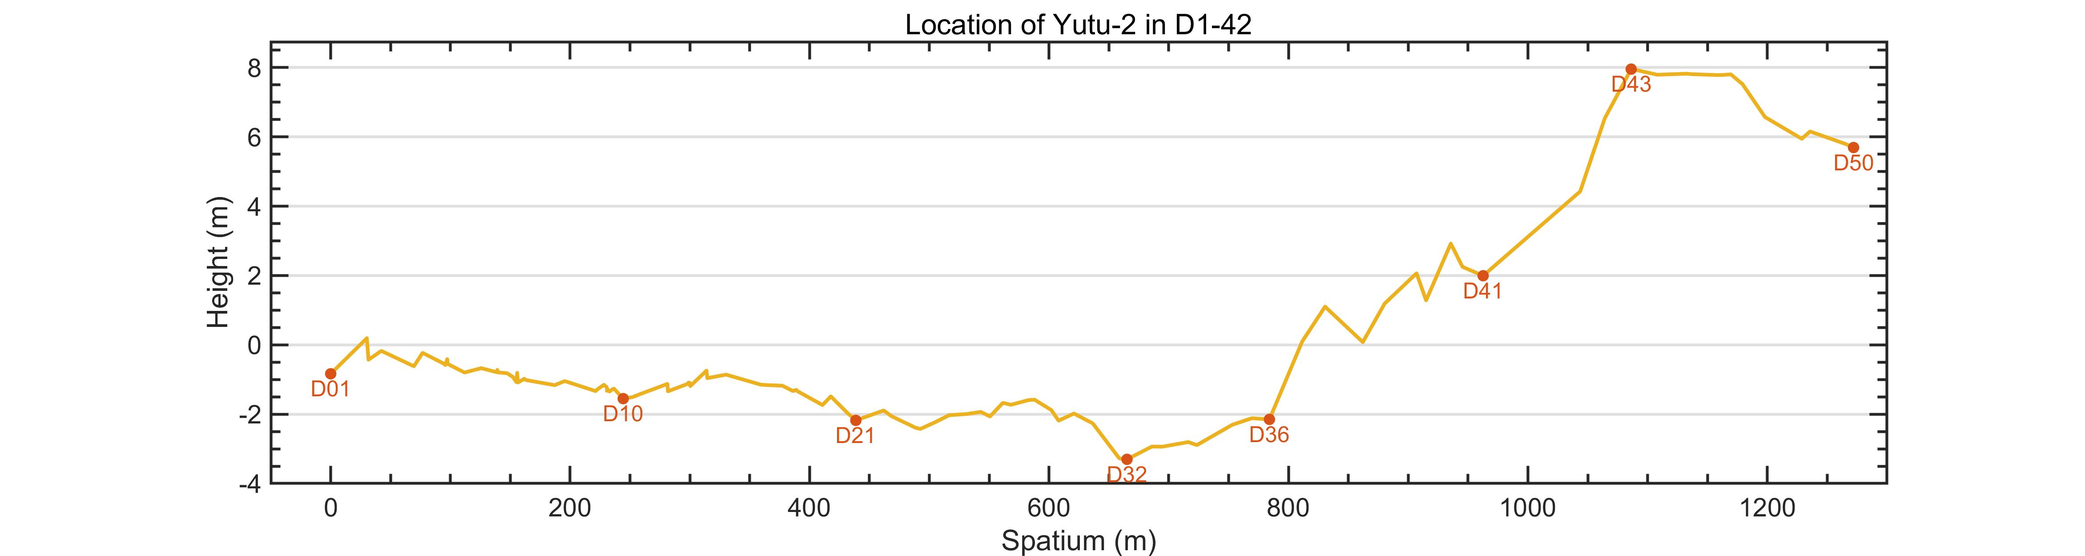
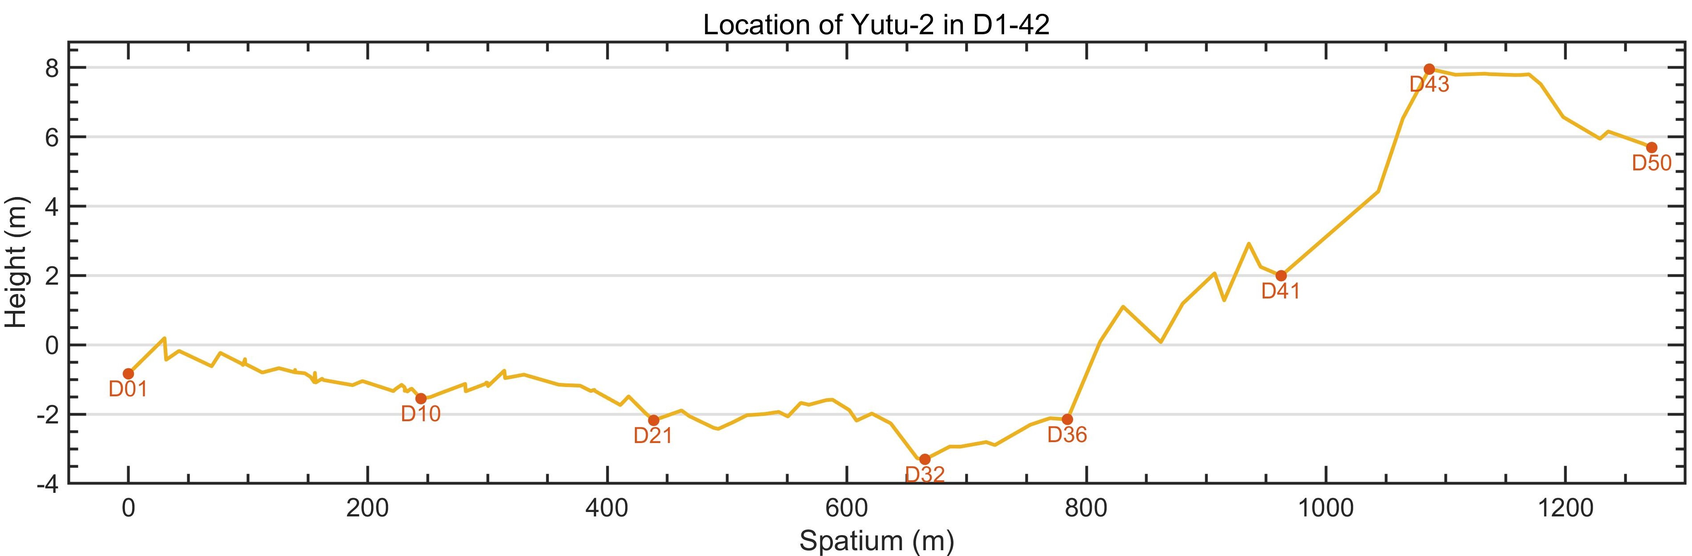
Site updated: 2023-05-11 22:05:02

diff --git a/2023/05/09/玉兔2号路上的新鲜撞击坑/index.html b/2023/05/09/玉兔2号路上的新鲜撞击坑/index.html
@@ -26,8 +26,11 @@
 <meta property="og:image" content="http://example.com/img/404.jpg">
 <meta property="og:image" content="http://example.com/img/404.jpg">
 <meta property="og:image" content="http://example.com/img/404.jpg">
+<meta property="og:image" content="http://example.com/img/404.jpg">
+<meta property="og:image" content="http://example.com/img/404.jpg">
+<meta property="og:image" content="http://example.com/img/404.jpg">
 <meta property="article:published_time" content="2023-05-09T11:37:14.549Z">
-<meta property="article:modified_time" content="2023-05-11T06:02:55.494Z">
+<meta property="article:modified_time" content="2023-05-11T14:04:27.759Z">
 <meta property="article:author" content="CooperZhao">
 <meta property="article:tag" content="CE4">
 <meta name="twitter:card" content="summary">
@@ -78,7 +81,7 @@
 
 <!-- Variable -->
 <script>window.ASYNC_CONFIG = {"hostname":"example.com","author":"CooperZhao","root":"/","typed_text":null,"theme_version":"2.0.3","theme":{"switch":true,"default":"style-dark"},"favicon":{"logo":"/img/MyName.jpg","icon16":"/img/MyName.jpg","icon32":"/img/MyName.jpg","appleTouchIcon":null,"webmanifest":null,"visibilitychange":false,"hidden":"/failure.ico","showText":"(/≧▽≦/)咦！又好了！","hideText":"(●—●)喔哟，崩溃啦！"},"i18n":{"placeholder":"搜索...","empty":"找不到您查询的内容: ${query}","hits":"找到 ${hits} 条结果","hits_time":"找到 ${hits} 条结果（用时 ${time} 毫秒）","author":"本文作者：","copyright_link":"本文链接：","copyright_license_title":"版权声明：","copyright_license_content":"本博客所有文章除特别声明外，均默认采用 undefined 许可协议。","copy_success":"复制成功","copy_failure":"复制失败","open_read_mode":"进入阅读模式","exit_read_mode":"退出阅读模式","notice_outdate_message":"距离上次更新已经 undefined 天了, 文章内容可能已经过时。","just":"刚刚","min":"分钟前","hour":"小时前","day":"天前","month":"个月前"},"swup":false,"plugin":{"flickr_justified_gallery":"https://unpkg.com/flickr-justified-gallery@latest/dist/fjGallery.min.js"},"icons":{"sun":"far fa-sun","moon":"far fa-moon","play":"fas fa-play","email":"far fa-envelope","next":"fas fa-arrow-right","calendar":"far fa-calendar-alt","clock":"far fa-clock","user":"far fa-user","back_top":"fas fa-arrow-up","close":"fas fa-times","search":"fas fa-search","reward":"fas fa-hand-holding-usd","user_tag":"fas fa-user-alt","toc_tag":"fas fa-th-list","read":"fas fa-book-reader","arrows":"fas fa-arrows-alt-h","double_arrows":"fas fa-angle-double-down","copy":"fas fa-copy"},"icontype":"font","highlight":{"plugin":"highlighjs","theme":true,"copy":true,"lang":true,"title":"default","height_limit":false}};</script>
-<script id="async-page-config">window.PAGE_CONFIG = {"isPost":true,"isHome":false,"postUpdate":"2023-05-11 14:02:55"};</script>
+<script id="async-page-config">window.PAGE_CONFIG = {"isPost":true,"isHome":false,"postUpdate":"2023-05-11 22:04:27"};</script>
 
 <!-- Theme mode css -->
 <link data-swup-theme rel="stylesheet" href="/css/index.css?v=2.0.3" id="trm-switch-style">
@@ -433,7 +436,9 @@
 <h3 id="Number2"><a href="#Number2" class="headerlink" title="Number2"></a>Number2</h3><p>第2个新鲜撞击坑被发现于2019.7.29，第8月昼。这次玉兔2号展开了详细的探测，整个探测周期持续到了第10月昼。在这长达2个多月的时间内，玉兔2号几乎驶入了这个小撞击坑，并且进行了两个角度的抵近观测。同时，玉兔2号开启车载可见-近红外光谱仪，对坑中心的异常物质进行了光谱探测。<br>光谱数据显示，这团物质的光谱与碳质球粒陨石的光谱非常接近，因此它有可能是月球表面遭受陨石撞击形成的一个新鲜撞击坑，中心暗色胶结物质是陨石与月壤熔融混合形成(<a target="_blank" rel="noopener" href="https://doi.org/10.1038/s41550-021-01530-w">Yang-2020-NA</a>)。<br>但是根据撞击坑的形态显示出西北高，东南低的特点，以及周围有与之相关的新鲜撞击坑群，指向位于着陆区西偏北方向的织女撞击坑是它们的源头。即这个新鲜的撞击坑是织女撞击坑溅射物形成的二次坑，可能不是陨石直接撞击形成的(<a target="_blank" rel="noopener" href="https://doi.org/10.1029/2020GL087361w">Ding-2020-GRL</a>)。<br>Pit2:<br><img src="/img/CE4_Pit-2.jpg" loading="lazy" onerror='this.onerror=null;this.src="/img/404.jpg"'><br><img src="/img/CE4_Pit-2-2.jpg" loading="lazy" onerror='this.onerror=null;this.src="/img/404.jpg"'><br>Pit2 Look Back:<br><img src="/img/CE4_Pit-2-LookBack.jpg" loading="lazy" onerror='this.onerror=null;this.src="/img/404.jpg"'></p>
 <h3 id="Number3"><a href="#Number3" class="headerlink" title="Number3"></a>Number3</h3><p>第3个新鲜撞击坑被发现于2020.4.26，第17月昼。玉兔2号再次展开了详细的探测，车头调整对准坑心，可见-近红外光谱仪启动开展光谱测量。第18月昼没有数据回传，在第19月昼，玉兔2号回望了自己的探测轨迹。在Pit2和Pit3之间其实也遇到了几个新鲜撞击坑，但都没有进行详细探测。<br>Pit3:<br><img src="/img/CE4_Pit-3.jpg" loading="lazy" onerror='this.onerror=null;this.src="/img/404.jpg"'><br><img src="/img/CE4_Pit-3-2.jpg" loading="lazy" onerror='this.onerror=null;this.src="/img/404.jpg"'><br>成像光谱探测影像：<br><img src="/img/CE4_Pit-3-Spec.jpg" loading="lazy" onerror='this.onerror=null;this.src="/img/404.jpg"'><br>Pit3 Look Back:<br><img src="/img/CE4_Pit-3-LookBack.jpg" loading="lazy" onerror='this.onerror=null;this.src="/img/404.jpg"'><br><img src="/img/CE4_Pit-3-LookBack-2.jpg" loading="lazy" onerror='this.onerror=null;this.src="/img/404.jpg"'></p>
 <h3 id="Number4"><a href="#Number4" class="headerlink" title="Number4"></a>Number4</h3><p>第4个新鲜撞击坑被发现于2020.8.15，第21月昼。但是这次的距离较远，并没有很清楚地拍到坑内的影像。这个坑有一个显著的特点是，溅射物集中分布在坑的一侧。此外，在这个坑的周围也存在多个小一些的新鲜撞击坑。<br><img src="/img/CE4_Pit-4.jpg" loading="lazy" onerror='this.onerror=null;this.src="/img/404.jpg"'><br><img src="/img/CE4_Pit-4-2.jpg" loading="lazy" onerror='this.onerror=null;this.src="/img/404.jpg"'></p>
-<p>此外在D14，D15，D21，D24，玉兔2号月球车也遇见了许多亚米级尺度的新鲜撞击坑。</p>
+<h3 id="Number5"><a href="#Number5" class="headerlink" title="Number5"></a>Number5</h3><p>第5个新鲜撞击坑被发现于2021.8.13，第33月昼。虽然这次玉兔2号月球车近距离经过了这个坑，但是并未进行详细的探测。<br><img src="/img/CE4_Pit-5.jpg" loading="lazy" onerror='this.onerror=null;this.src="/img/404.jpg"'></p>
+<h3 id="Number6-7"><a href="#Number6-7" class="headerlink" title="Number6 7"></a>Number6 7</h3><p>第6,7个新鲜撞击坑被发现于2021.9.3，第34月昼。这次一次性遇到了两个m级尺度的新鲜撞击坑，但是与前面一样，玉兔2号仍然没有进行更详细的探测。<br><img src="/img/CE4_Pit-6and7.jpg" loading="lazy" onerror='this.onerror=null;this.src="/img/404.jpg"'><br>Pit6 7 Look Back:<br><img src="/img/CE4_Pit-6and7-LookBack.jpg" loading="lazy" onerror='this.onerror=null;this.src="/img/404.jpg"'></p>
+<p>此外在D14，D15，D21，D24，D27，D29，D32，D33玉兔2号月球车也遇见了许多亚米级尺度的新鲜撞击坑。</p>
 
 </article>
     

diff --git a/2023/03/20/嫦娥4号着陆区/index.html b/2023/03/20/嫦娥4号着陆区/index.html
@@ -9,7 +9,7 @@
 <meta content="width=device-width, initial-scale=1.0, maximum-scale=5.0, user-scalable=0" name="viewport">
 <meta name="description" content="嫦娥4号是中国国家航天局于2018年12月8日发射的一颗月球探测器，于次年1月3日成功着陆在月球背面的冯·卡门撞击坑内，这是人类历史上第一次在月球背面进行的软着陆任务。 LRO影像：从LRO拍摄的影像上，可以看到嫦娥4号着陆器和玉兔2号月球车的行驶路径。这里叠加上了前50月昼(2019.1-2022.12)，玉兔2号光谱仪的探测点。注：1个月昼约27天7小时。 DTM LRO：从LRO数据制作的数">
 <meta property="og:type" content="article">
-<meta property="og:title" content="玉兔2号前42月昼巡视路径">
+<meta property="og:title" content="玉兔2号前50月昼巡视路径">
 <meta property="og:url" content="http://example.com/2023/03/20/%E5%AB%A6%E5%A8%A54%E5%8F%B7%E7%9D%80%E9%99%86%E5%8C%BA/index.html">
 <meta property="og:site_name" content="我不是孤独">
 <meta property="og:description" content="嫦娥4号是中国国家航天局于2018年12月8日发射的一颗月球探测器，于次年1月3日成功着陆在月球背面的冯·卡门撞击坑内，这是人类历史上第一次在月球背面进行的软着陆任务。 LRO影像：从LRO拍摄的影像上，可以看到嫦娥4号着陆器和玉兔2号月球车的行驶路径。这里叠加上了前50月昼(2019.1-2022.12)，玉兔2号光谱仪的探测点。注：1个月昼约27天7小时。 DTM LRO：从LRO数据制作的数">
@@ -19,7 +19,7 @@
 <meta property="og:image" content="http://example.com/img/404.jpg">
 <meta property="og:image" content="http://example.com/img/404.jpg">
 <meta property="article:published_time" content="2023-03-20T13:41:32.928Z">
-<meta property="article:modified_time" content="2023-05-09T11:36:15.657Z">
+<meta property="article:modified_time" content="2023-05-11T07:21:27.202Z">
 <meta property="article:author" content="CooperZhao">
 <meta property="article:tag" content="CE4">
 <meta name="twitter:card" content="summary">
@@ -28,7 +28,7 @@
     <meta name="keywords" content="CE4 月球背面">
 
 
-<title >玉兔2号前42月昼巡视路径</title>
+<title >玉兔2号前50月昼巡视路径</title>
 
 <!-- Favicon -->
 
@@ -70,7 +70,7 @@
 
 <!-- Variable -->
 <script>window.ASYNC_CONFIG = {"hostname":"example.com","author":"CooperZhao","root":"/","typed_text":null,"theme_version":"2.0.3","theme":{"switch":true,"default":"style-dark"},"favicon":{"logo":"/img/MyName.jpg","icon16":"/img/MyName.jpg","icon32":"/img/MyName.jpg","appleTouchIcon":null,"webmanifest":null,"visibilitychange":false,"hidden":"/failure.ico","showText":"(/≧▽≦/)咦！又好了！","hideText":"(●—●)喔哟，崩溃啦！"},"i18n":{"placeholder":"搜索...","empty":"找不到您查询的内容: ${query}","hits":"找到 ${hits} 条结果","hits_time":"找到 ${hits} 条结果（用时 ${time} 毫秒）","author":"本文作者：","copyright_link":"本文链接：","copyright_license_title":"版权声明：","copyright_license_content":"本博客所有文章除特别声明外，均默认采用 undefined 许可协议。","copy_success":"复制成功","copy_failure":"复制失败","open_read_mode":"进入阅读模式","exit_read_mode":"退出阅读模式","notice_outdate_message":"距离上次更新已经 undefined 天了, 文章内容可能已经过时。","just":"刚刚","min":"分钟前","hour":"小时前","day":"天前","month":"个月前"},"swup":false,"plugin":{"flickr_justified_gallery":"https://unpkg.com/flickr-justified-gallery@latest/dist/fjGallery.min.js"},"icons":{"sun":"far fa-sun","moon":"far fa-moon","play":"fas fa-play","email":"far fa-envelope","next":"fas fa-arrow-right","calendar":"far fa-calendar-alt","clock":"far fa-clock","user":"far fa-user","back_top":"fas fa-arrow-up","close":"fas fa-times","search":"fas fa-search","reward":"fas fa-hand-holding-usd","user_tag":"fas fa-user-alt","toc_tag":"fas fa-th-list","read":"fas fa-book-reader","arrows":"fas fa-arrows-alt-h","double_arrows":"fas fa-angle-double-down","copy":"fas fa-copy"},"icontype":"font","highlight":{"plugin":"highlighjs","theme":true,"copy":true,"lang":true,"title":"default","height_limit":false}};</script>
-<script id="async-page-config">window.PAGE_CONFIG = {"isPost":true,"isHome":false,"postUpdate":"2023-05-09 19:36:15"};</script>
+<script id="async-page-config">window.PAGE_CONFIG = {"isPost":true,"isHome":false,"postUpdate":"2023-05-11 15:21:27"};</script>
 
 <!-- Theme mode css -->
 <link data-swup-theme rel="stylesheet" href="/css/index.css?v=2.0.3" id="trm-switch-style">
@@ -264,7 +264,7 @@
                             位于冯卡门撞击坑底部
                         </div>
                         <h1 class="trm-mb-30 trm-hsmb-font">
-                            玉兔2号前42月昼巡视路径
+                            玉兔2号前50月昼巡视路径
                         </h1>
 
                         

diff --git a/archives/2023/03/index.html b/archives/2023/03/index.html
@@ -60,7 +60,7 @@
 
 <!-- Variable -->
 <script>window.ASYNC_CONFIG = {"hostname":"example.com","author":"CooperZhao","root":"/","typed_text":null,"theme_version":"2.0.3","theme":{"switch":true,"default":"style-dark"},"favicon":{"logo":"/img/MyName.jpg","icon16":"/img/MyName.jpg","icon32":"/img/MyName.jpg","appleTouchIcon":null,"webmanifest":null,"visibilitychange":false,"hidden":"/failure.ico","showText":"(/≧▽≦/)咦！又好了！","hideText":"(●—●)喔哟，崩溃啦！"},"i18n":{"placeholder":"搜索...","empty":"找不到您查询的内容: ${query}","hits":"找到 ${hits} 条结果","hits_time":"找到 ${hits} 条结果（用时 ${time} 毫秒）","author":"本文作者：","copyright_link":"本文链接：","copyright_license_title":"版权声明：","copyright_license_content":"本博客所有文章除特别声明外，均默认采用 undefined 许可协议。","copy_success":"复制成功","copy_failure":"复制失败","open_read_mode":"进入阅读模式","exit_read_mode":"退出阅读模式","notice_outdate_message":"距离上次更新已经 undefined 天了, 文章内容可能已经过时。","just":"刚刚","min":"分钟前","hour":"小时前","day":"天前","month":"个月前"},"swup":false,"plugin":{"flickr_justified_gallery":"https://unpkg.com/flickr-justified-gallery@latest/dist/fjGallery.min.js"},"icons":{"sun":"far fa-sun","moon":"far fa-moon","play":"fas fa-play","email":"far fa-envelope","next":"fas fa-arrow-right","calendar":"far fa-calendar-alt","clock":"far fa-clock","user":"far fa-user","back_top":"fas fa-arrow-up","close":"fas fa-times","search":"fas fa-search","reward":"fas fa-hand-holding-usd","user_tag":"fas fa-user-alt","toc_tag":"fas fa-th-list","read":"fas fa-book-reader","arrows":"fas fa-arrows-alt-h","double_arrows":"fas fa-angle-double-down","copy":"fas fa-copy"},"icontype":"font","highlight":{"plugin":"highlighjs","theme":true,"copy":true,"lang":true,"title":"default","height_limit":false}};</script>
-<script id="async-page-config">window.PAGE_CONFIG = {"isPost":false,"isHome":false,"postUpdate":"2023-05-11 14:03:16"};</script>
+<script id="async-page-config">window.PAGE_CONFIG = {"isPost":false,"isHome":false,"postUpdate":"2023-05-11 22:04:57"};</script>
 
 <!-- Theme mode css -->
 <link data-swup-theme rel="stylesheet" href="/css/index.css?v=2.0.3" id="trm-switch-style">
@@ -423,7 +423,7 @@
                             <div class="trm-left-side">
                                 <h6>
                                     <a href="/2023/03/20/%E5%AB%A6%E5%A8%A54%E5%8F%B7%E7%9D%80%E9%99%86%E5%8C%BA/" class="trm-anima-link">
-                                        玉兔2号前42月昼巡视路径
+                                        玉兔2号前50月昼巡视路径
                                     </a>
                                 </h6>
                                 <div class="trm-text-sm trm-accent-color trm-mt-15">

diff --git a/archives/2023/index.html b/archives/2023/index.html
@@ -60,7 +60,7 @@
 
 <!-- Variable -->
 <script>window.ASYNC_CONFIG = {"hostname":"example.com","author":"CooperZhao","root":"/","typed_text":null,"theme_version":"2.0.3","theme":{"switch":true,"default":"style-dark"},"favicon":{"logo":"/img/MyName.jpg","icon16":"/img/MyName.jpg","icon32":"/img/MyName.jpg","appleTouchIcon":null,"webmanifest":null,"visibilitychange":false,"hidden":"/failure.ico","showText":"(/≧▽≦/)咦！又好了！","hideText":"(●—●)喔哟，崩溃啦！"},"i18n":{"placeholder":"搜索...","empty":"找不到您查询的内容: ${query}","hits":"找到 ${hits} 条结果","hits_time":"找到 ${hits} 条结果（用时 ${time} 毫秒）","author":"本文作者：","copyright_link":"本文链接：","copyright_license_title":"版权声明：","copyright_license_content":"本博客所有文章除特别声明外，均默认采用 undefined 许可协议。","copy_success":"复制成功","copy_failure":"复制失败","open_read_mode":"进入阅读模式","exit_read_mode":"退出阅读模式","notice_outdate_message":"距离上次更新已经 undefined 天了, 文章内容可能已经过时。","just":"刚刚","min":"分钟前","hour":"小时前","day":"天前","month":"个月前"},"swup":false,"plugin":{"flickr_justified_gallery":"https://unpkg.com/flickr-justified-gallery@latest/dist/fjGallery.min.js"},"icons":{"sun":"far fa-sun","moon":"far fa-moon","play":"fas fa-play","email":"far fa-envelope","next":"fas fa-arrow-right","calendar":"far fa-calendar-alt","clock":"far fa-clock","user":"far fa-user","back_top":"fas fa-arrow-up","close":"fas fa-times","search":"fas fa-search","reward":"fas fa-hand-holding-usd","user_tag":"fas fa-user-alt","toc_tag":"fas fa-th-list","read":"fas fa-book-reader","arrows":"fas fa-arrows-alt-h","double_arrows":"fas fa-angle-double-down","copy":"fas fa-copy"},"icontype":"font","highlight":{"plugin":"highlighjs","theme":true,"copy":true,"lang":true,"title":"default","height_limit":false}};</script>
-<script id="async-page-config">window.PAGE_CONFIG = {"isPost":false,"isHome":false,"postUpdate":"2023-05-11 14:03:16"};</script>
+<script id="async-page-config">window.PAGE_CONFIG = {"isPost":false,"isHome":false,"postUpdate":"2023-05-11 22:04:57"};</script>
 
 <!-- Theme mode css -->
 <link data-swup-theme rel="stylesheet" href="/css/index.css?v=2.0.3" id="trm-switch-style">
@@ -475,7 +475,7 @@
                             <div class="trm-left-side">
                                 <h6>
                                     <a href="/2023/03/20/%E5%AB%A6%E5%A8%A54%E5%8F%B7%E7%9D%80%E9%99%86%E5%8C%BA/" class="trm-anima-link">
-                                        玉兔2号前42月昼巡视路径
+                                        玉兔2号前50月昼巡视路径
                                     </a>
                                 </h6>
                                 <div class="trm-text-sm trm-accent-color trm-mt-15">

diff --git a/archives/index.html b/archives/index.html
@@ -60,7 +60,7 @@
 
 <!-- Variable -->
 <script>window.ASYNC_CONFIG = {"hostname":"example.com","author":"CooperZhao","root":"/","typed_text":null,"theme_version":"2.0.3","theme":{"switch":true,"default":"style-dark"},"favicon":{"logo":"/img/MyName.jpg","icon16":"/img/MyName.jpg","icon32":"/img/MyName.jpg","appleTouchIcon":null,"webmanifest":null,"visibilitychange":false,"hidden":"/failure.ico","showText":"(/≧▽≦/)咦！又好了！","hideText":"(●—●)喔哟，崩溃啦！"},"i18n":{"placeholder":"搜索...","empty":"找不到您查询的内容: ${query}","hits":"找到 ${hits} 条结果","hits_time":"找到 ${hits} 条结果（用时 ${time} 毫秒）","author":"本文作者：","copyright_link":"本文链接：","copyright_license_title":"版权声明：","copyright_license_content":"本博客所有文章除特别声明外，均默认采用 undefined 许可协议。","copy_success":"复制成功","copy_failure":"复制失败","open_read_mode":"进入阅读模式","exit_read_mode":"退出阅读模式","notice_outdate_message":"距离上次更新已经 undefined 天了, 文章内容可能已经过时。","just":"刚刚","min":"分钟前","hour":"小时前","day":"天前","month":"个月前"},"swup":false,"plugin":{"flickr_justified_gallery":"https://unpkg.com/flickr-justified-gallery@latest/dist/fjGallery.min.js"},"icons":{"sun":"far fa-sun","moon":"far fa-moon","play":"fas fa-play","email":"far fa-envelope","next":"fas fa-arrow-right","calendar":"far fa-calendar-alt","clock":"far fa-clock","user":"far fa-user","back_top":"fas fa-arrow-up","close":"fas fa-times","search":"fas fa-search","reward":"fas fa-hand-holding-usd","user_tag":"fas fa-user-alt","toc_tag":"fas fa-th-list","read":"fas fa-book-reader","arrows":"fas fa-arrows-alt-h","double_arrows":"fas fa-angle-double-down","copy":"fas fa-copy"},"icontype":"font","highlight":{"plugin":"highlighjs","theme":true,"copy":true,"lang":true,"title":"default","height_limit":false}};</script>
-<script id="async-page-config">window.PAGE_CONFIG = {"isPost":false,"isHome":false,"postUpdate":"2023-05-11 14:03:16"};</script>
+<script id="async-page-config">window.PAGE_CONFIG = {"isPost":false,"isHome":false,"postUpdate":"2023-05-11 22:04:57"};</script>
 
 <!-- Theme mode css -->
 <link data-swup-theme rel="stylesheet" href="/css/index.css?v=2.0.3" id="trm-switch-style">
@@ -475,7 +475,7 @@
                             <div class="trm-left-side">
                                 <h6>
                                     <a href="/2023/03/20/%E5%AB%A6%E5%A8%A54%E5%8F%B7%E7%9D%80%E9%99%86%E5%8C%BA/" class="trm-anima-link">
-                                        玉兔2号前42月昼巡视路径
+                                        玉兔2号前50月昼巡视路径
                                     </a>
                                 </h6>
                                 <div class="trm-text-sm trm-accent-color trm-mt-15">

diff --git a/categories/CE4/index.html b/categories/CE4/index.html
@@ -60,7 +60,7 @@
 
 <!-- Variable -->
 <script>window.ASYNC_CONFIG = {"hostname":"example.com","author":"CooperZhao","root":"/","typed_text":null,"theme_version":"2.0.3","theme":{"switch":true,"default":"style-dark"},"favicon":{"logo":"/img/MyName.jpg","icon16":"/img/MyName.jpg","icon32":"/img/MyName.jpg","appleTouchIcon":null,"webmanifest":null,"visibilitychange":false,"hidden":"/failure.ico","showText":"(/≧▽≦/)咦！又好了！","hideText":"(●—●)喔哟，崩溃啦！"},"i18n":{"placeholder":"搜索...","empty":"找不到您查询的内容: ${query}","hits":"找到 ${hits} 条结果","hits_time":"找到 ${hits} 条结果（用时 ${time} 毫秒）","author":"本文作者：","copyright_link":"本文链接：","copyright_license_title":"版权声明：","copyright_license_content":"本博客所有文章除特别声明外，均默认采用 undefined 许可协议。","copy_success":"复制成功","copy_failure":"复制失败","open_read_mode":"进入阅读模式","exit_read_mode":"退出阅读模式","notice_outdate_message":"距离上次更新已经 undefined 天了, 文章内容可能已经过时。","just":"刚刚","min":"分钟前","hour":"小时前","day":"天前","month":"个月前"},"swup":false,"plugin":{"flickr_justified_gallery":"https://unpkg.com/flickr-justified-gallery@latest/dist/fjGallery.min.js"},"icons":{"sun":"far fa-sun","moon":"far fa-moon","play":"fas fa-play","email":"far fa-envelope","next":"fas fa-arrow-right","calendar":"far fa-calendar-alt","clock":"far fa-clock","user":"far fa-user","back_top":"fas fa-arrow-up","close":"fas fa-times","search":"fas fa-search","reward":"fas fa-hand-holding-usd","user_tag":"fas fa-user-alt","toc_tag":"fas fa-th-list","read":"fas fa-book-reader","arrows":"fas fa-arrows-alt-h","double_arrows":"fas fa-angle-double-down","copy":"fas fa-copy"},"icontype":"font","highlight":{"plugin":"highlighjs","theme":true,"copy":true,"lang":true,"title":"default","height_limit":false}};</script>
-<script id="async-page-config">window.PAGE_CONFIG = {"isPost":false,"isHome":false,"postUpdate":"2023-05-11 14:03:16"};</script>
+<script id="async-page-config">window.PAGE_CONFIG = {"isPost":false,"isHome":false,"postUpdate":"2023-05-11 22:04:57"};</script>
 
 <!-- Theme mode css -->
 <link data-swup-theme rel="stylesheet" href="/css/index.css?v=2.0.3" id="trm-switch-style">
@@ -449,7 +449,7 @@
                             <div class="trm-left-side">
                                 <h6>
                                     <a href="/2023/03/20/%E5%AB%A6%E5%A8%A54%E5%8F%B7%E7%9D%80%E9%99%86%E5%8C%BA/" class="trm-anima-link">
-                                        玉兔2号前42月昼巡视路径
+                                        玉兔2号前50月昼巡视路径
                                     </a>
                                 </h6>
                                 <div class="trm-text-sm trm-accent-color trm-mt-15">

diff --git a/tags/CE4/index.html b/tags/CE4/index.html
@@ -60,7 +60,7 @@
 
 <!-- Variable -->
 <script>window.ASYNC_CONFIG = {"hostname":"example.com","author":"CooperZhao","root":"/","typed_text":null,"theme_version":"2.0.3","theme":{"switch":true,"default":"style-dark"},"favicon":{"logo":"/img/MyName.jpg","icon16":"/img/MyName.jpg","icon32":"/img/MyName.jpg","appleTouchIcon":null,"webmanifest":null,"visibilitychange":false,"hidden":"/failure.ico","showText":"(/≧▽≦/)咦！又好了！","hideText":"(●—●)喔哟，崩溃啦！"},"i18n":{"placeholder":"搜索...","empty":"找不到您查询的内容: ${query}","hits":"找到 ${hits} 条结果","hits_time":"找到 ${hits} 条结果（用时 ${time} 毫秒）","author":"本文作者：","copyright_link":"本文链接：","copyright_license_title":"版权声明：","copyright_license_content":"本博客所有文章除特别声明外，均默认采用 undefined 许可协议。","copy_success":"复制成功","copy_failure":"复制失败","open_read_mode":"进入阅读模式","exit_read_mode":"退出阅读模式","notice_outdate_message":"距离上次更新已经 undefined 天了, 文章内容可能已经过时。","just":"刚刚","min":"分钟前","hour":"小时前","day":"天前","month":"个月前"},"swup":false,"plugin":{"flickr_justified_gallery":"https://unpkg.com/flickr-justified-gallery@latest/dist/fjGallery.min.js"},"icons":{"sun":"far fa-sun","moon":"far fa-moon","play":"fas fa-play","email":"far fa-envelope","next":"fas fa-arrow-right","calendar":"far fa-calendar-alt","clock":"far fa-clock","user":"far fa-user","back_top":"fas fa-arrow-up","close":"fas fa-times","search":"fas fa-search","reward":"fas fa-hand-holding-usd","user_tag":"fas fa-user-alt","toc_tag":"fas fa-th-list","read":"fas fa-book-reader","arrows":"fas fa-arrows-alt-h","double_arrows":"fas fa-angle-double-down","copy":"fas fa-copy"},"icontype":"font","highlight":{"plugin":"highlighjs","theme":true,"copy":true,"lang":true,"title":"default","height_limit":false}};</script>
-<script id="async-page-config">window.PAGE_CONFIG = {"isPost":false,"isHome":false,"postUpdate":"2023-05-11 14:03:16"};</script>
+<script id="async-page-config">window.PAGE_CONFIG = {"isPost":false,"isHome":false,"postUpdate":"2023-05-11 22:04:57"};</script>
 
 <!-- Theme mode css -->
 <link data-swup-theme rel="stylesheet" href="/css/index.css?v=2.0.3" id="trm-switch-style">
@@ -449,7 +449,7 @@
                             <div class="trm-left-side">
                                 <h6>
                                     <a href="/2023/03/20/%E5%AB%A6%E5%A8%A54%E5%8F%B7%E7%9D%80%E9%99%86%E5%8C%BA/" class="trm-anima-link">
-                                        玉兔2号前42月昼巡视路径
+                                        玉兔2号前50月昼巡视路径
                                     </a>
                                 </h6>
                                 <div class="trm-text-sm trm-accent-color trm-mt-15">

diff --git a/index.html b/index.html
@@ -60,7 +60,7 @@
 
 <!-- Variable -->
 <script>window.ASYNC_CONFIG = {"hostname":"example.com","author":"CooperZhao","root":"/","typed_text":null,"theme_version":"2.0.3","theme":{"switch":true,"default":"style-dark"},"favicon":{"logo":"/img/MyName.jpg","icon16":"/img/MyName.jpg","icon32":"/img/MyName.jpg","appleTouchIcon":null,"webmanifest":null,"visibilitychange":false,"hidden":"/failure.ico","showText":"(/≧▽≦/)咦！又好了！","hideText":"(●—●)喔哟，崩溃啦！"},"i18n":{"placeholder":"搜索...","empty":"找不到您查询的内容: ${query}","hits":"找到 ${hits} 条结果","hits_time":"找到 ${hits} 条结果（用时 ${time} 毫秒）","author":"本文作者：","copyright_link":"本文链接：","copyright_license_title":"版权声明：","copyright_license_content":"本博客所有文章除特别声明外，均默认采用 undefined 许可协议。","copy_success":"复制成功","copy_failure":"复制失败","open_read_mode":"进入阅读模式","exit_read_mode":"退出阅读模式","notice_outdate_message":"距离上次更新已经 undefined 天了, 文章内容可能已经过时。","just":"刚刚","min":"分钟前","hour":"小时前","day":"天前","month":"个月前"},"swup":false,"plugin":{"flickr_justified_gallery":"https://unpkg.com/flickr-justified-gallery@latest/dist/fjGallery.min.js"},"icons":{"sun":"far fa-sun","moon":"far fa-moon","play":"fas fa-play","email":"far fa-envelope","next":"fas fa-arrow-right","calendar":"far fa-calendar-alt","clock":"far fa-clock","user":"far fa-user","back_top":"fas fa-arrow-up","close":"fas fa-times","search":"fas fa-search","reward":"fas fa-hand-holding-usd","user_tag":"fas fa-user-alt","toc_tag":"fas fa-th-list","read":"fas fa-book-reader","arrows":"fas fa-arrows-alt-h","double_arrows":"fas fa-angle-double-down","copy":"fas fa-copy"},"icontype":"font","highlight":{"plugin":"highlighjs","theme":true,"copy":true,"lang":true,"title":"default","height_limit":false}};</script>
-<script id="async-page-config">window.PAGE_CONFIG = {"isPost":false,"isHome":true,"postUpdate":"2023-05-11 14:03:16"};</script>
+<script id="async-page-config">window.PAGE_CONFIG = {"isPost":false,"isHome":true,"postUpdate":"2023-05-11 22:04:57"};</script>
 
 <!-- Theme mode css -->
 <link data-swup-theme rel="stylesheet" href="/css/index.css?v=2.0.3" id="trm-switch-style">
@@ -528,7 +528,7 @@
             </div>
             <h5>
                 <a href="/2023/03/20/%E5%AB%A6%E5%A8%A54%E5%8F%B7%E7%9D%80%E9%99%86%E5%8C%BA/" class="trm-anima-link">
-                    玉兔2号前42月昼巡视路径
+                    玉兔2号前50月昼巡视路径
                 </a>
             </h5>
             <div class="trm-divider trm-mb-20 trm-mt-20"></div>

diff --git a/archives/2023/05/index.html b/archives/2023/05/index.html
@@ -60,7 +60,7 @@
 
 <!-- Variable -->
 <script>window.ASYNC_CONFIG = {"hostname":"example.com","author":"CooperZhao","root":"/","typed_text":null,"theme_version":"2.0.3","theme":{"switch":true,"default":"style-dark"},"favicon":{"logo":"/img/MyName.jpg","icon16":"/img/MyName.jpg","icon32":"/img/MyName.jpg","appleTouchIcon":null,"webmanifest":null,"visibilitychange":false,"hidden":"/failure.ico","showText":"(/≧▽≦/)咦！又好了！","hideText":"(●—●)喔哟，崩溃啦！"},"i18n":{"placeholder":"搜索...","empty":"找不到您查询的内容: ${query}","hits":"找到 ${hits} 条结果","hits_time":"找到 ${hits} 条结果（用时 ${time} 毫秒）","author":"本文作者：","copyright_link":"本文链接：","copyright_license_title":"版权声明：","copyright_license_content":"本博客所有文章除特别声明外，均默认采用 undefined 许可协议。","copy_success":"复制成功","copy_failure":"复制失败","open_read_mode":"进入阅读模式","exit_read_mode":"退出阅读模式","notice_outdate_message":"距离上次更新已经 undefined 天了, 文章内容可能已经过时。","just":"刚刚","min":"分钟前","hour":"小时前","day":"天前","month":"个月前"},"swup":false,"plugin":{"flickr_justified_gallery":"https://unpkg.com/flickr-justified-gallery@latest/dist/fjGallery.min.js"},"icons":{"sun":"far fa-sun","moon":"far fa-moon","play":"fas fa-play","email":"far fa-envelope","next":"fas fa-arrow-right","calendar":"far fa-calendar-alt","clock":"far fa-clock","user":"far fa-user","back_top":"fas fa-arrow-up","close":"fas fa-times","search":"fas fa-search","reward":"fas fa-hand-holding-usd","user_tag":"fas fa-user-alt","toc_tag":"fas fa-th-list","read":"fas fa-book-reader","arrows":"fas fa-arrows-alt-h","double_arrows":"fas fa-angle-double-down","copy":"fas fa-copy"},"icontype":"font","highlight":{"plugin":"highlighjs","theme":true,"copy":true,"lang":true,"title":"default","height_limit":false}};</script>
-<script id="async-page-config">window.PAGE_CONFIG = {"isPost":false,"isHome":false,"postUpdate":"2023-05-11 14:03:16"};</script>
+<script id="async-page-config">window.PAGE_CONFIG = {"isPost":false,"isHome":false,"postUpdate":"2023-05-11 22:04:57"};</script>
 
 <!-- Theme mode css -->
 <link data-swup-theme rel="stylesheet" href="/css/index.css?v=2.0.3" id="trm-switch-style">

diff --git a/categories/CE5/index.html b/categories/CE5/index.html
@@ -60,7 +60,7 @@
 
 <!-- Variable -->
 <script>window.ASYNC_CONFIG = {"hostname":"example.com","author":"CooperZhao","root":"/","typed_text":null,"theme_version":"2.0.3","theme":{"switch":true,"default":"style-dark"},"favicon":{"logo":"/img/MyName.jpg","icon16":"/img/MyName.jpg","icon32":"/img/MyName.jpg","appleTouchIcon":null,"webmanifest":null,"visibilitychange":false,"hidden":"/failure.ico","showText":"(/≧▽≦/)咦！又好了！","hideText":"(●—●)喔哟，崩溃啦！"},"i18n":{"placeholder":"搜索...","empty":"找不到您查询的内容: ${query}","hits":"找到 ${hits} 条结果","hits_time":"找到 ${hits} 条结果（用时 ${time} 毫秒）","author":"本文作者：","copyright_link":"本文链接：","copyright_license_title":"版权声明：","copyright_license_content":"本博客所有文章除特别声明外，均默认采用 undefined 许可协议。","copy_success":"复制成功","copy_failure":"复制失败","open_read_mode":"进入阅读模式","exit_read_mode":"退出阅读模式","notice_outdate_message":"距离上次更新已经 undefined 天了, 文章内容可能已经过时。","just":"刚刚","min":"分钟前","hour":"小时前","day":"天前","month":"个月前"},"swup":false,"plugin":{"flickr_justified_gallery":"https://unpkg.com/flickr-justified-gallery@latest/dist/fjGallery.min.js"},"icons":{"sun":"far fa-sun","moon":"far fa-moon","play":"fas fa-play","email":"far fa-envelope","next":"fas fa-arrow-right","calendar":"far fa-calendar-alt","clock":"far fa-clock","user":"far fa-user","back_top":"fas fa-arrow-up","close":"fas fa-times","search":"fas fa-search","reward":"fas fa-hand-holding-usd","user_tag":"fas fa-user-alt","toc_tag":"fas fa-th-list","read":"fas fa-book-reader","arrows":"fas fa-arrows-alt-h","double_arrows":"fas fa-angle-double-down","copy":"fas fa-copy"},"icontype":"font","highlight":{"plugin":"highlighjs","theme":true,"copy":true,"lang":true,"title":"default","height_limit":false}};</script>
-<script id="async-page-config">window.PAGE_CONFIG = {"isPost":false,"isHome":false,"postUpdate":"2023-05-11 14:03:16"};</script>
+<script id="async-page-config">window.PAGE_CONFIG = {"isPost":false,"isHome":false,"postUpdate":"2023-05-11 22:04:57"};</script>
 
 <!-- Theme mode css -->
 <link data-swup-theme rel="stylesheet" href="/css/index.css?v=2.0.3" id="trm-switch-style">

diff --git a/categories/TW1/index.html b/categories/TW1/index.html
@@ -60,7 +60,7 @@
 
 <!-- Variable -->
 <script>window.ASYNC_CONFIG = {"hostname":"example.com","author":"CooperZhao","root":"/","typed_text":null,"theme_version":"2.0.3","theme":{"switch":true,"default":"style-dark"},"favicon":{"logo":"/img/MyName.jpg","icon16":"/img/MyName.jpg","icon32":"/img/MyName.jpg","appleTouchIcon":null,"webmanifest":null,"visibilitychange":false,"hidden":"/failure.ico","showText":"(/≧▽≦/)咦！又好了！","hideText":"(●—●)喔哟，崩溃啦！"},"i18n":{"placeholder":"搜索...","empty":"找不到您查询的内容: ${query}","hits":"找到 ${hits} 条结果","hits_time":"找到 ${hits} 条结果（用时 ${time} 毫秒）","author":"本文作者：","copyright_link":"本文链接：","copyright_license_title":"版权声明：","copyright_license_content":"本博客所有文章除特别声明外，均默认采用 undefined 许可协议。","copy_success":"复制成功","copy_failure":"复制失败","open_read_mode":"进入阅读模式","exit_read_mode":"退出阅读模式","notice_outdate_message":"距离上次更新已经 undefined 天了, 文章内容可能已经过时。","just":"刚刚","min":"分钟前","hour":"小时前","day":"天前","month":"个月前"},"swup":false,"plugin":{"flickr_justified_gallery":"https://unpkg.com/flickr-justified-gallery@latest/dist/fjGallery.min.js"},"icons":{"sun":"far fa-sun","moon":"far fa-moon","play":"fas fa-play","email":"far fa-envelope","next":"fas fa-arrow-right","calendar":"far fa-calendar-alt","clock":"far fa-clock","user":"far fa-user","back_top":"fas fa-arrow-up","close":"fas fa-times","search":"fas fa-search","reward":"fas fa-hand-holding-usd","user_tag":"fas fa-user-alt","toc_tag":"fas fa-th-list","read":"fas fa-book-reader","arrows":"fas fa-arrows-alt-h","double_arrows":"fas fa-angle-double-down","copy":"fas fa-copy"},"icontype":"font","highlight":{"plugin":"highlighjs","theme":true,"copy":true,"lang":true,"title":"default","height_limit":false}};</script>
-<script id="async-page-config">window.PAGE_CONFIG = {"isPost":false,"isHome":false,"postUpdate":"2023-05-11 14:03:16"};</script>
+<script id="async-page-config">window.PAGE_CONFIG = {"isPost":false,"isHome":false,"postUpdate":"2023-05-11 22:04:57"};</script>
 
 <!-- Theme mode css -->
 <link data-swup-theme rel="stylesheet" href="/css/index.css?v=2.0.3" id="trm-switch-style">

diff --git a/tags/CE5/index.html b/tags/CE5/index.html
@@ -60,7 +60,7 @@
 
 <!-- Variable -->
 <script>window.ASYNC_CONFIG = {"hostname":"example.com","author":"CooperZhao","root":"/","typed_text":null,"theme_version":"2.0.3","theme":{"switch":true,"default":"style-dark"},"favicon":{"logo":"/img/MyName.jpg","icon16":"/img/MyName.jpg","icon32":"/img/MyName.jpg","appleTouchIcon":null,"webmanifest":null,"visibilitychange":false,"hidden":"/failure.ico","showText":"(/≧▽≦/)咦！又好了！","hideText":"(●—●)喔哟，崩溃啦！"},"i18n":{"placeholder":"搜索...","empty":"找不到您查询的内容: ${query}","hits":"找到 ${hits} 条结果","hits_time":"找到 ${hits} 条结果（用时 ${time} 毫秒）","author":"本文作者：","copyright_link":"本文链接：","copyright_license_title":"版权声明：","copyright_license_content":"本博客所有文章除特别声明外，均默认采用 undefined 许可协议。","copy_success":"复制成功","copy_failure":"复制失败","open_read_mode":"进入阅读模式","exit_read_mode":"退出阅读模式","notice_outdate_message":"距离上次更新已经 undefined 天了, 文章内容可能已经过时。","just":"刚刚","min":"分钟前","hour":"小时前","day":"天前","month":"个月前"},"swup":false,"plugin":{"flickr_justified_gallery":"https://unpkg.com/flickr-justified-gallery@latest/dist/fjGallery.min.js"},"icons":{"sun":"far fa-sun","moon":"far fa-moon","play":"fas fa-play","email":"far fa-envelope","next":"fas fa-arrow-right","calendar":"far fa-calendar-alt","clock":"far fa-clock","user":"far fa-user","back_top":"fas fa-arrow-up","close":"fas fa-times","search":"fas fa-search","reward":"fas fa-hand-holding-usd","user_tag":"fas fa-user-alt","toc_tag":"fas fa-th-list","read":"fas fa-book-reader","arrows":"fas fa-arrows-alt-h","double_arrows":"fas fa-angle-double-down","copy":"fas fa-copy"},"icontype":"font","highlight":{"plugin":"highlighjs","theme":true,"copy":true,"lang":true,"title":"default","height_limit":false}};</script>
-<script id="async-page-config">window.PAGE_CONFIG = {"isPost":false,"isHome":false,"postUpdate":"2023-05-11 14:03:16"};</script>
+<script id="async-page-config">window.PAGE_CONFIG = {"isPost":false,"isHome":false,"postUpdate":"2023-05-11 22:04:57"};</script>
 
 <!-- Theme mode css -->
 <link data-swup-theme rel="stylesheet" href="/css/index.css?v=2.0.3" id="trm-switch-style">
